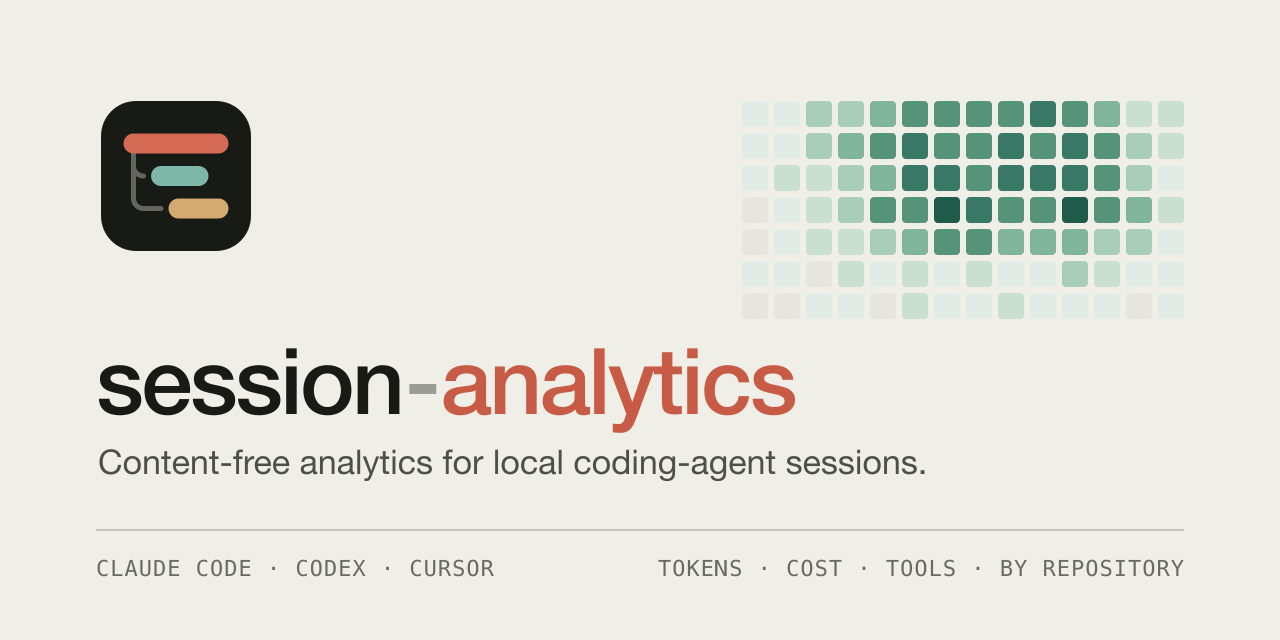
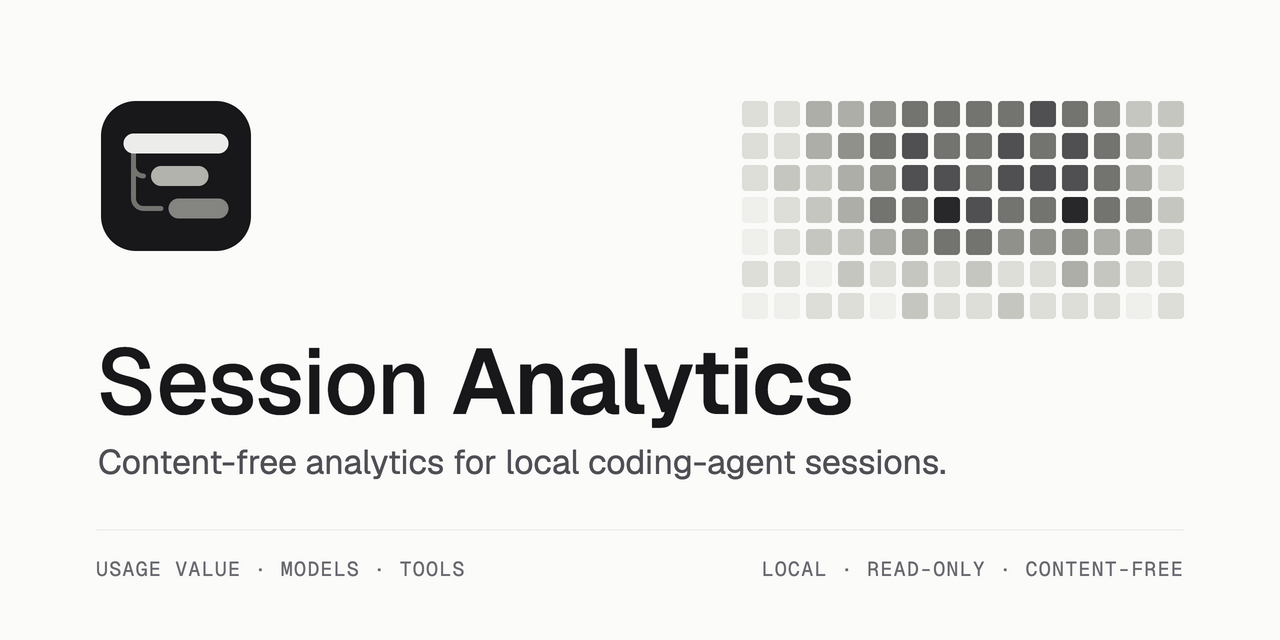
docs: align README branding with the Fluxary dashboard (#61)

diff --git a/docs/branding.md b/docs/branding.md
@@ -15,11 +15,11 @@
 | Desktop `assets/screenshot-*.webp` | README screenshots in light and dark pairs (`-dark` suffix), rendered from the synthetic demo only at 1280 CSS pixels, comfortable density, as lossless WebP. |
 | `assets/screenshot-mobile.webp`, `assets/screenshot-mobile-dark.webp` | Synthetic mobile Summary at 375 × 812 CSS pixels, compact density. Capture sources and regeneration commands are in [screenshot provenance](../assets/SCREENSHOTS.md). |
 
-The wordmarks use a system font stack (`ui-sans-serif, -apple-system, Segoe UI, Helvetica Neue, Helvetica, Arial, sans-serif`) at weight 600, with `textLength` set so wider fallback fonts compress instead of clipping.
+The wordmarks match the dashboard’s “Session Analytics” name and Geist weights 500/600. The SVGs embed the bundled Geist font so GitHub image rendering does not depend on fonts installed on the reader’s device. The social preview also embeds Geist Mono for its labels; both fonts retain their [OFL license](../src/public/fonts/OFL-1.1.txt). The README uses plain metadata links and theme-aware wordmarks and screenshots.
 
 The dashboard follows Fluxary OS’s [design language](https://github.com/rokas-tarasevicius/fluxary-os/blob/d96e453ffb9ae8bd300e926db8fc61ec9c185e95/docs/decisions/2026-10-12-design-language.md): warm neutral surfaces, ink controls, opaque chrome, hairline borders and locally bundled Geist typography. At desktop widths of 1200px and above, Summary places its daily chart and provider breakdown beside a continuous 260px totals rail. Narrower screens retain totals-first reading order. Analytical sections sit on an open canvas with dividing lines; dialogs, controls and the totals rail retain surface boundaries.
 
-The dashboard mark, favicon, controls and heatmap use a warm ink scale. Provider and model charts retain identity colours so series remain distinguishable. Exported repository logos and social-preview assets retain their original palette. Dashboard type is Geist (text) and Geist Mono (figures and identifiers), both bundled under the OFL.
+The dashboard mark, favicon, controls and heatmap use a warm ink scale. Provider and model charts retain identity colours so series remain distinguishable. Repository logos and the social preview use the same neutral palette, including the activity heatmap. Dashboard type is Geist (text) and Geist Mono (figures and identifiers), both bundled under the OFL.
 
 | Role | Light | Dark |
 | --- | --- | --- |
@@ -75,10 +75,7 @@ Velocity's non-provider groups (repository, execution kind, effort) use the `--c
 
 ### Regenerating images
 
-```bash
-rsvg-convert -w 512 -h 512 assets/logo.svg -o assets/logo.png
-rsvg-convert -w 1280 -h 640 assets/social-preview.svg -o assets/social-preview.png
-```
+The SVGs are the editable brand sources. Keep the mark geometry and palette aligned with `src/public/favicon.svg` and the dashboard wordmark. Text remains editable SVG text; embedded WOFF2 data comes from `src/public/fonts/`. After editing, render `assets/logo.svg` at 512 × 512 and `assets/social-preview.svg` at 1280 × 640 in a browser and save PNGs at those exact dimensions. Wait for `document.fonts.ready` before capturing. Use a transparent background for the mark. Check the light and dark wordmarks at the README’s 440px display width.
 
 Screenshots come from the demo dataset only. In one terminal, start `npm run demo -- --no-open`; in another, run `node scripts/screenshots.ts --url http://127.0.0.1:4175`. The script requires Chrome and `cwebp`, captures desktop views at 1280 CSS pixels and 2x scale in comfortable density, and writes lossless light/dark WebP pairs to `assets/`. The `--only mobile` capture uses 375 × 812 CSS pixels, 2x scale and compact density. Use `--only NAME` for one capture or `--out DIR` for a review artifact directory. See [screenshot provenance](../assets/SCREENSHOTS.md) for the source and capture settings. Never point it at a dashboard reading real history.
 
@@ -88,8 +85,8 @@ Screenshots come from the demo dataset only. In one terminal, start `npm run dem
 2. **`package.json`**: `name`, `description`, the `bin` key, and the `repository`, `homepage`, and `bugs` URLs. Rename `bin/session-analytics.ts` if the file name should match, and update the `start`, `report`, and `demo` scripts.
 3. **Dashboard**: the `<title>`, the wordmark text (`Session <b>Analytics</b>`), and the wordmark's `aria-label` in `src/public/index.html`.
 4. **Agent skill**: the directory `skills/session-analytics/`, its `name` and command in `SKILL.md`, and `skills/session-analytics/agents/openai.yaml`. Users who symlinked the skill need to update the link.
-5. **Assets**: edit the SVG text in both wordmarks and the social preview, regenerate the PNGs, and replace `src/public/favicon.svg` if the mark changes.
-6. **Documentation**: README badges and links, `SECURITY.md` and `CODE_OF_CONDUCT.md` links, `.github/ISSUE_TEMPLATE/config.yml`, and the clone URL.
+5. **Assets**: edit the SVG text and accessible titles in both wordmarks and the social preview, regenerate the PNGs, and replace `src/public/favicon.svg` if the mark changes.
+6. **Documentation**: README metadata and links, `SECURITY.md` and `CODE_OF_CONDUCT.md` links, `.github/ISSUE_TEMPLATE/config.yml`, and the clone URL.
 7. **Tests**: `test/cli.test.ts` and `test/contract.test.ts` assert the command name, help text, and skill name; update them in the same change.
 
 When the repository moves to a new owner or name, GitHub keeps redirects, issues, and pull requests.

diff --git a/README.md b/README.md
@@ -2,7 +2,7 @@
 
 <picture>
   <source media="(prefers-color-scheme: dark)" srcset="assets/logo-wordmark-dark.svg" />
-  <img alt="session-analytics" src="assets/logo-wordmark.svg" width="440" />
+  <img alt="Session Analytics" src="assets/logo-wordmark.svg" width="440" />
 </picture>
 
 <h3>Content-free analytics for your coding-agent sessions.</h3>
@@ -10,12 +10,7 @@
 <p>See usage value, models, tools and activity by repository across Claude Code, Codex, Cursor, Copilot CLI, OpenCode and Gemini CLI.<br />
 Local and read-only. No prompts, messages or file paths in its outputs.</p>
 
-[![CI](https://github.com/rokas-tarasevicius/session-analytics/actions/workflows/ci.yml/badge.svg?branch=master)](https://github.com/rokas-tarasevicius/session-analytics/actions/workflows/ci.yml)
-[![License: MIT](https://img.shields.io/badge/license-MIT-blue)](LICENSE)
-[![Node >= 24](https://img.shields.io/badge/node-%3E%3D24-339933?logo=nodedotjs&logoColor=white)](https://nodejs.org/)
-[![Runtime dependencies: 0](https://img.shields.io/badge/runtime%20dependencies-0-2d6a5a)](package.json)
-[![Privacy: content-free](https://img.shields.io/badge/privacy-content--free-2d6a5a)](docs/privacy.md)
-[![Status: public preview](https://img.shields.io/badge/status-public%20preview-18181b)](docs/roadmap.md)
+<p><a href="LICENSE">MIT</a> · <a href="https://nodejs.org/">Node.js 24+</a> · <a href="package.json">Zero runtime dependencies</a> · <a href="docs/roadmap.md">Public preview</a> · <a href="https://github.com/rokas-tarasevicius/session-analytics/actions/workflows/ci.yml">CI</a></p>
 
 </div>
 
@@ -25,6 +20,18 @@ Local and read-only. No prompts, messages or file paths in its outputs.</p>
 </picture>
 
 *Synthetic demo data. [Full dashboard tour →](docs/dashboard.md)*
+
+<details>
+<summary>Velocity: usage over time, grouped by model</summary>
+
+<picture>
+  <source media="(prefers-color-scheme: dark)" srcset="assets/screenshot-velocity-dark.webp" />
+  <img alt="Velocity dashboard grouped by model, with provider-coloured model series" src="assets/screenshot-velocity.webp" width="100%" />
+</picture>
+
+Model is the default grouping. Provider colours keep the series easy to distinguish.
+
+</details>
 
 ## Get started
 

diff --git a/CHANGELOG.md b/CHANGELOG.md
@@ -8,6 +8,7 @@ All notable changes to this project are documented here. The format follows [Kee
 
 - The dashboard adopts Fluxary's warm neutral surfaces, Geist typography, ink controls and open analytical sections, with Summary totals in a desktop side rail. Provider and model graphs retain their identity colours; the logo and activity heatmap use neutral tones.
 - Velocity opens grouped by model. Its series ordering is unchanged.
+- README wordmarks and the repository social preview now match the dashboard’s neutral palette and bundled Geist type. Plain metadata links replace coloured badges, and an expandable Velocity preview shows the default model grouping.
 - The README is shorter, with the dashboard tour and FAQ in linked guides. Generated Fluxary diagrams replace Mermaid blocks and include editable JSON plus light and dark SVGs. Synthetic screenshots reflect the new dashboard.
 
 ## [0.8.1] - 2026-10-13
